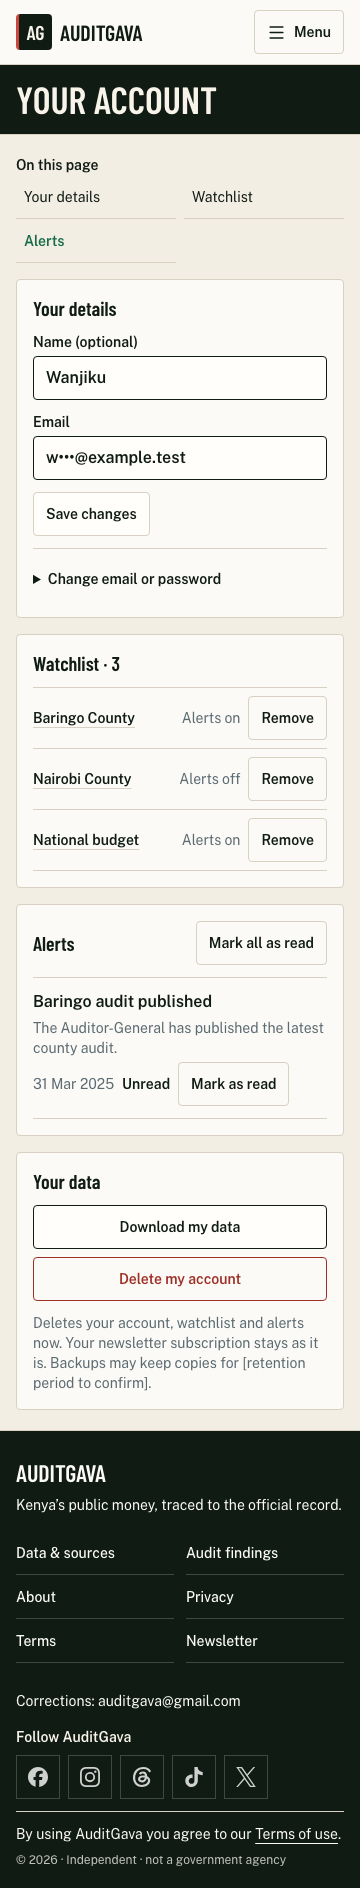
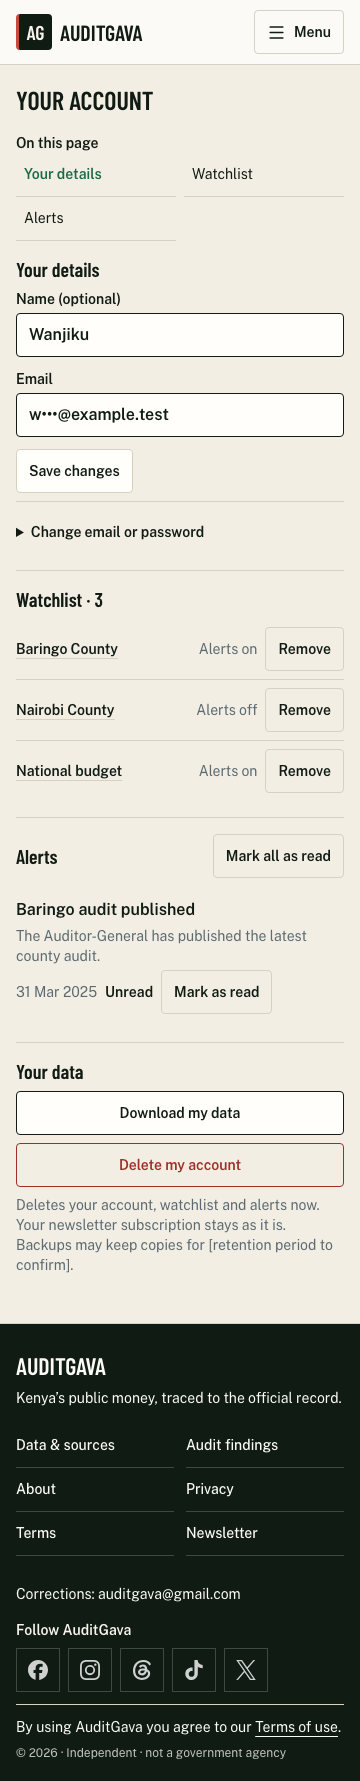
fix(account): match the approved flat settings layout

diff --git a/frontend/components/account/AccountDashboard.tsx b/frontend/components/account/AccountDashboard.tsx
@@ -17,7 +17,7 @@ import { useCallback, useEffect, useRef, useState } from 'react';
 import AccountDataActions from './AccountDataActions';
 
 const fieldClass = 'mt-1 min-h-11 w-full rounded border border-neutral-text bg-surface-elevated px-3 text-base';
-const sectionClass = 'audit-panel space-y-3 p-4 sm:p-5';
+const sectionClass = 'space-y-2 py-4 sm:space-y-3 sm:py-5';
 const headingClass = 'font-display text-audit-heading font-semibold';
 
 type Message = { type: 'success' | 'error'; text: string };
@@ -157,8 +157,8 @@ export default function AccountDashboard({ accountId }: { accountId: string }) {
   }
 
   return (
-    <div className='max-w-3xl space-y-4 text-neutral-text'>
-      <section className={sectionClass} aria-labelledby='account-details'>
+    <div className='max-w-3xl divide-y divide-neutral-border text-neutral-text'>
+      <section className={`${sectionClass} pt-0 sm:pt-0`} aria-labelledby='account-details'>
         <h2 id='account-details' className={headingClass}>{copy.details[lang]}</h2>
         <form className='space-y-3' onSubmit={event => {
           event.preventDefault();
@@ -222,7 +222,7 @@ export default function AccountDashboard({ accountId }: { accountId: string }) {
               </div>
             </>
           ) : (
-            <ul className='divide-y divide-neutral-border border-y border-neutral-border'>
+            <ul className='divide-y divide-neutral-border'>
               {watchlist.map(item => (
                 <li key={item.id} className='flex flex-wrap items-center justify-between gap-x-4 py-2'>
                   <Link href={item.item_type === 'county' ? `/counties/${item.item_id}` : '/budget'}
@@ -260,7 +260,7 @@ export default function AccountDashboard({ accountId }: { accountId: string }) {
           </div>
         ) : alerts === null ? <p role='status' className='text-sm'>{copy.loading[lang]}</p> : (
           alerts.length === 0 ? <p className='text-sm text-neutral-muted'>{copy.emptyAlerts[lang]}</p> : (
-            <ul className='divide-y divide-neutral-border border-y border-neutral-border'>
+            <ul className='divide-y divide-neutral-border'>
               {alerts.map(alert => (
                 <li key={alert.id} className='space-y-1 py-3'>
                   <p className='break-words font-semibold'>{alert.title}</p>

diff --git a/frontend/app/account/page.tsx b/frontend/app/account/page.tsx
@@ -1,7 +1,7 @@
 'use client';
 
 import AccountDashboard from '@/components/account/AccountDashboard';
-import PageShell from '@/components/layout/PageShell';
+import SectionNavigation from '@/components/layout/SectionNavigation';
 import { useAuth } from '@/lib/auth/AuthProvider';
 import { useLang } from '@/lib/i18n/LangProvider';
 import { ACCOUNT_MESSAGES as copy } from '@/lib/i18n/messages/account';
@@ -25,19 +25,24 @@ export default function AccountPage() {
     }
   }, [isLoading, authUser, router]);
 
-  if (isLoading) {
-    return (
-      <PageShell title={copy.title[lang]} breadcrumbs={false}>
-        <p role='status' className='py-8 text-sm'>{copy.loading[lang]}</p>
-      </PageShell>
-    );
-  }
-
-  if (!authUser) return null;
+  if (!isLoading && !authUser) return null;
 
   return (
-    <PageShell title={copy.title[lang]} breadcrumbs={false} sections={sections}>
-      <AccountDashboard key={authUser.id} accountId={authUser.id} />
-    </PageShell>
+    <div className='min-h-screen bg-gov-sand pt-[var(--public-header-height)] text-neutral-text dark:bg-surface-sunken'>
+      <div className='mx-auto max-w-screen-xl px-4 pb-8 pt-5 sm:px-6 md:pt-8'>
+        <h1 className='audit-figure mb-4 text-[26px] uppercase leading-tight sm:text-audit-title'>
+          {copy.title[lang]}
+        </h1>
+        {isLoading ? (
+          <p role='status' className='py-8 text-sm'>{copy.loading[lang]}</p>
+        ) : authUser && (
+          <SectionNavigation sections={sections}>
+            <div className='page-shell-content min-w-0'>
+              <AccountDashboard key={authUser.id} accountId={authUser.id} />
+            </div>
+          </SectionNavigation>
+        )}
+      </div>
+    </div>
   );
 }

diff --git a/frontend/components/account/AccountDataActions.tsx b/frontend/components/account/AccountDataActions.tsx
@@ -56,7 +56,7 @@ export default function AccountDataActions({ accountId }: { accountId: string })
   }
 
   return (
-    <section aria-labelledby='account-data' className='audit-panel space-y-3 p-4 sm:p-5'>
+    <section aria-labelledby='account-data' className='space-y-2 py-4 sm:space-y-3 sm:py-5'>
       <h2 id='account-data' className='font-display text-audit-heading font-semibold'>{copy.data[lang]}</h2>
       <div className='flex flex-col gap-2 sm:flex-row sm:flex-wrap'>
         <button type='button' className='audit-control border-neutral-text bg-surface-elevated' onClick={handleDownload}
